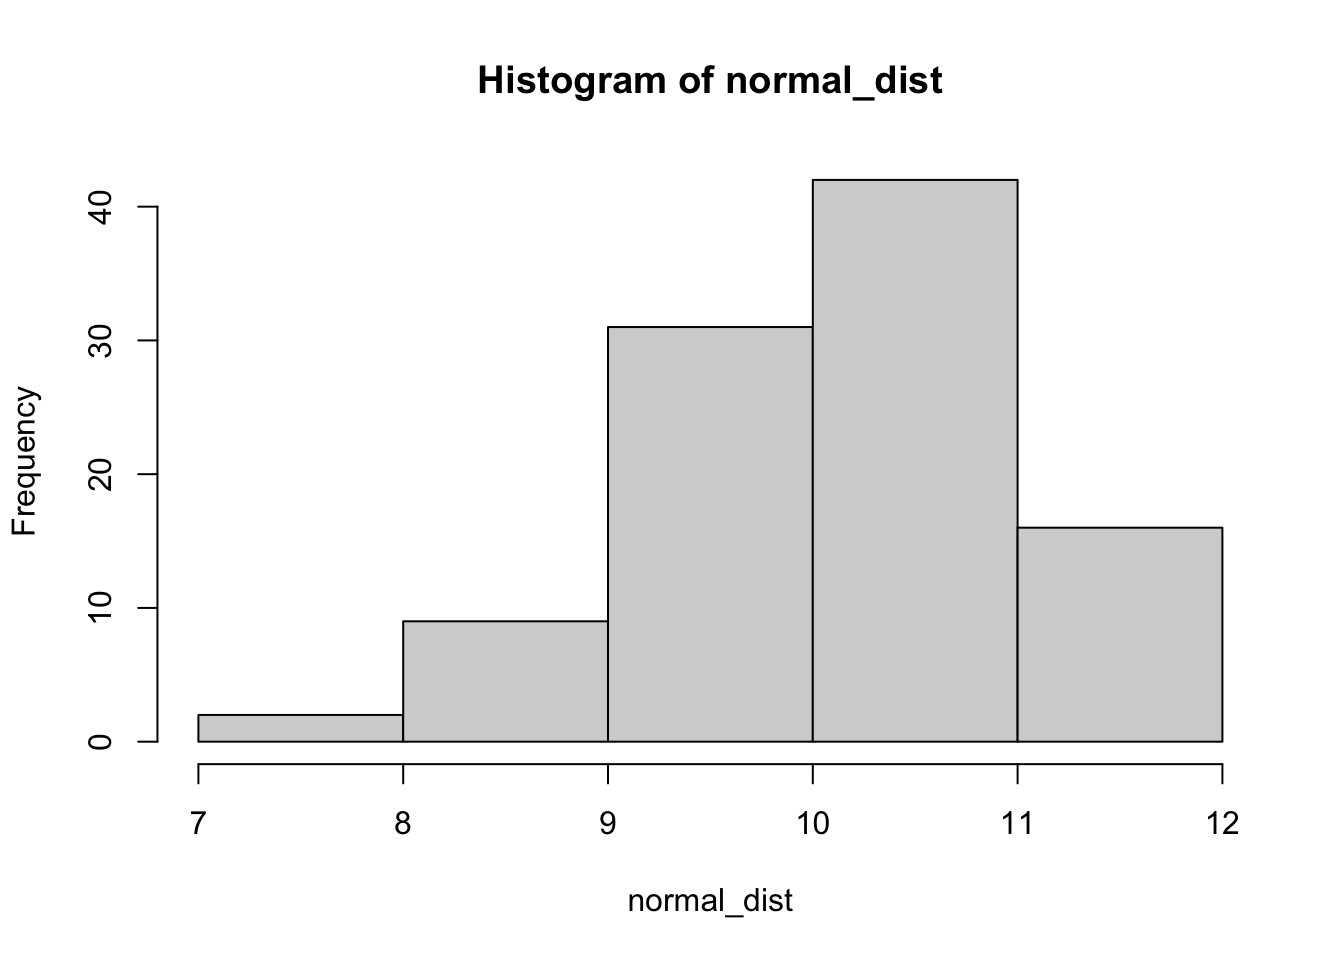
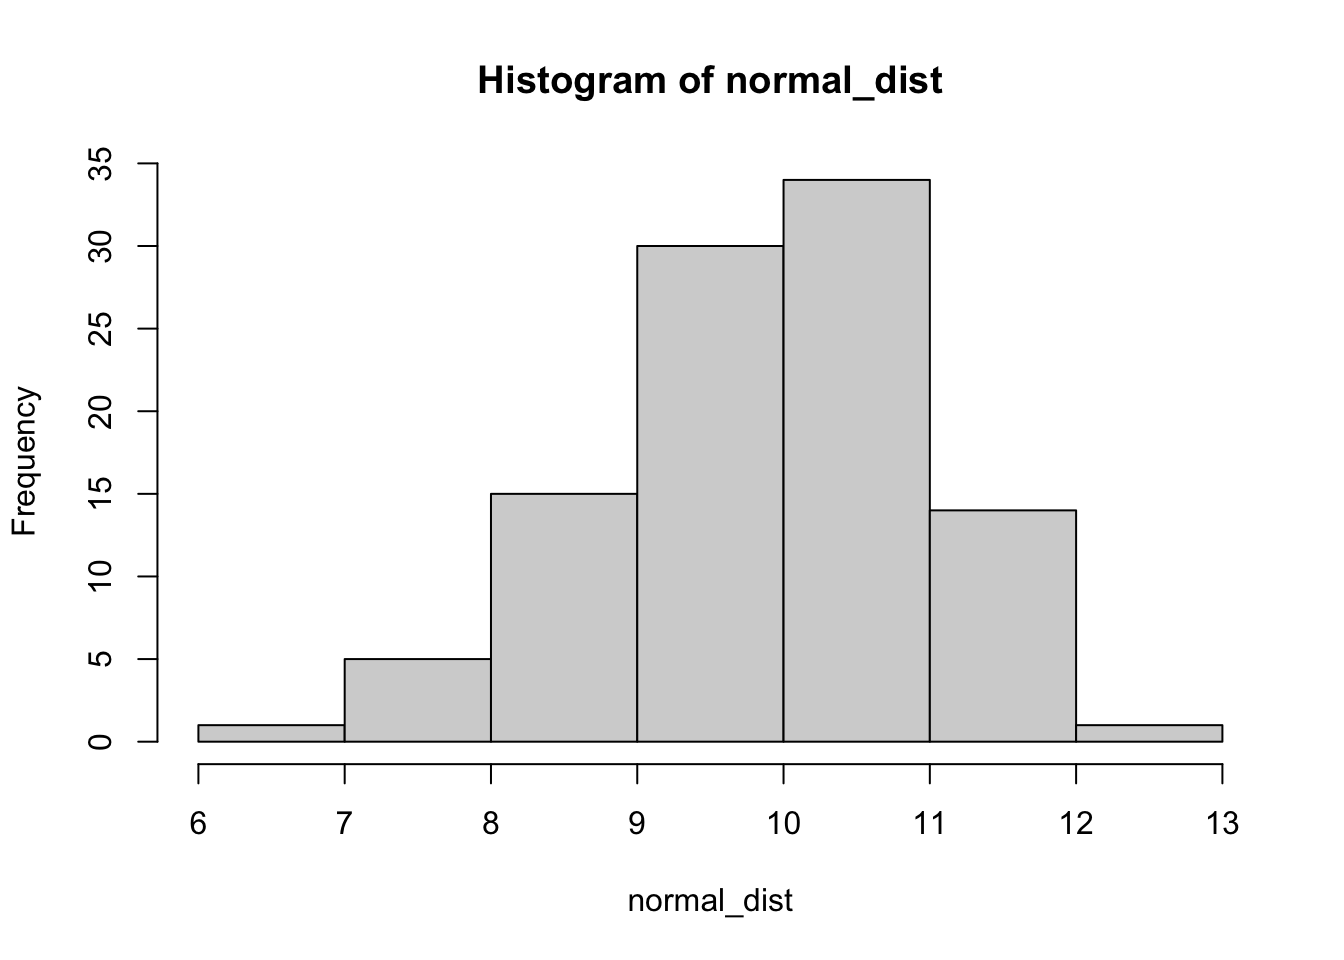
practicing commits

diff --git a/docs/unit1.html b/docs/unit1.html
@@ -249,7 +249,7 @@ An applied course using IPUMS data <br></p></a>
 </div>
 <div id="data-types" class="section level3 hasAnchor" number="1.1.2">
 <h3><span class="header-section-number">1.1.2</span> Data Types<a href="unit1.html#data-types" class="anchor-section" aria-label="Anchor link to header"></a></h3>
-<p><strong>Data</strong> is defined as “facts and statistics collected together for reference or analysis.” <em>This is from the internet and needs to be our words</em> As seen in Figure 1.1, there are two types of data: quantitative and qualitative.</p>
+<p><strong>Data</strong> is defined as “facts and statistics collected together for reference or analysis.” <em>This is from the internet and needs to be our words</em> As seen in Figure 1.1, there are two types of data: <strong>quantitative</strong> and <strong>qualitative</strong>. Quanitative data are able to be expressed in numerical format and are countable. These data are either <strong>discrete</strong> or <strong>continuous</strong>…</p>
 </div>
 <div id="data-structures" class="section level3 hasAnchor" number="1.1.3">
 <h3><span class="header-section-number">1.1.3</span> Data Structures<a href="unit1.html#data-structures" class="anchor-section" aria-label="Anchor link to header"></a></h3>
@@ -267,21 +267,21 @@ An applied course using IPUMS data <br></p></a>
 <span id="cb1-5"><a href="unit1.html#cb1-5" aria-hidden="true" tabindex="-1"></a></span>
 <span id="cb1-6"><a href="unit1.html#cb1-6" aria-hidden="true" tabindex="-1"></a></span>
 <span id="cb1-7"><a href="unit1.html#cb1-7" aria-hidden="true" tabindex="-1"></a>normal_dist</span></code></pre></div>
-<pre><code>##   [1]  9.884120 10.418187  9.486954 10.081521  9.099549 10.600962 11.180761
-##   [8]  9.755042 10.728535  9.612714 10.256490 10.715195 10.315489  9.473617
-##  [15] 11.662231  8.132190  9.312744 10.506850  9.481237 10.562680 11.396598
-##  [22]  8.634232 10.859780  9.590872 10.403037 10.361097  9.922486 10.691373
-##  [29] 11.616673 10.582918 10.763476  9.893372 10.982175 11.511166  9.493631
-##  [36] 10.464214 11.840655 10.623305 10.545686 10.463679  9.206828 10.400561
-##  [43]  9.694152  9.707894 10.175858  9.419030  9.273655 10.904799  7.404722
-##  [50]  7.344172 11.403661  9.272458 10.289780  8.714176  8.832113 10.815729
-##  [57]  9.394216 11.135970 11.323845 11.289032  9.596247  8.985435  9.826195
-##  [64]  9.621148 10.909975 10.647734  9.934720  9.906234 10.887281  8.594194
-##  [71] 10.450755 10.959571 10.666295 10.797573  9.975733 11.188053  9.449970
-##  [78] 11.421477  9.933551  8.021793  9.678413 10.281204 10.408145  9.439964
-##  [85] 10.893647  9.630950 11.174907 11.333065 11.011356 10.779558 10.956930
-##  [92]  8.758179 10.728845 10.509436 10.547267 10.103059  9.837871 10.209878
-##  [99]  8.481586 11.064220</code></pre>
+<pre><code>##   [1]  8.599598 11.549236  8.372485  8.446231  7.532960  9.492829  9.925340
+##   [8] 11.577570  8.474388  9.433135  9.866623 10.989876 11.960443 10.254014
+##  [15]  9.265931  8.988782  6.725083 10.187834 10.245291 10.734284  7.787533
+##  [22]  9.611261 11.997086  9.903942 10.980689  9.300111 11.520628  9.029120
+##  [29] 10.882818  8.730818 10.349445 10.995308 10.532758  9.938942 10.144455
+##  [36]  8.655762 12.171410 10.836089  9.261669 11.087441  8.420252  9.850458
+##  [43] 10.771936  9.010512  7.363655  7.545340  9.473335  9.194871  9.101064
+##  [50]  9.928814  8.859065  8.036924  8.864251 10.704196  9.974637 11.291433
+##  [57] 10.242104 10.889863  9.932612 10.453192  8.650745 10.213872  8.366025
+##  [64] 11.020566  8.882291 10.865093  9.365097  9.536810  9.927920 10.661389
+##  [71]  9.965194 10.901657 10.168461 10.319010 10.666562  8.623084 10.028878
+##  [78] 11.565616 10.969398  9.388016 10.441387  9.507470  9.362422 11.036244
+##  [85] 11.240732 11.071958 10.491177  9.021965  7.615119 10.293261  9.394655
+##  [92] 11.369032 10.162399 10.562452  9.751584 10.520380 10.376754 10.974473
+##  [99]  9.967268 11.776614</code></pre>
 <p>Another better way to look at data would be to <strong>visualize</strong> or <strong>plot</strong> it. One way to to that is with a <strong>histogram</strong>, which groups <strong>continuous values</strong> into <strong>bins</strong>, then plots the <strong>frequency</strong> for each bin.</p>
 <p>In R, we use the <code>hist()</code> function to plot a histogram of data. We can (try to) control the number of bins with the <code>breaks</code> argument, but note that it doesn’t always match up. The <code>hist()</code> function will adjust based on the distribution of the data.</p>
 <div class="sourceCode" id="cb3"><pre class="sourceCode r"><code class="sourceCode r"><span id="cb3-1"><a href="unit1.html#cb3-1" aria-hidden="true" tabindex="-1"></a><span class="fu">hist</span>(normal_dist,<span class="at">breaks =</span> <span class="dv">5</span>)</span></code></pre></div>
@@ -298,7 +298,7 @@ An applied course using IPUMS data <br></p></a>
 <p>We can print the table in R by calling its name.</p>
 <div class="sourceCode" id="cb5"><pre class="sourceCode r"><code class="sourceCode r"><span id="cb5-1"><a href="unit1.html#cb5-1" aria-hidden="true" tabindex="-1"></a>tab_normal_dist</span></code></pre></div>
 <pre><code>##    Min. 1st Qu.  Median    Mean 3rd Qu.    Max. 
-##   7.344   9.595  10.338  10.155  10.802  11.841</code></pre>
+##   6.725   9.171   9.971   9.913  10.788  12.171</code></pre>
 <p>Mean, standard deviation</p>
 </div>
 <div id="meaningful-comparisons" class="section level4 hasAnchor" number="1.2.2.2">
@@ -329,9 +329,9 @@ An applied course using IPUMS data <br></p></a>
 <span id="cb11-2"><a href="unit1.html#cb11-2" aria-hidden="true" tabindex="-1"></a>                       <span class="fu">summary</span>(data2))</span>
 <span id="cb11-3"><a href="unit1.html#cb11-3" aria-hidden="true" tabindex="-1"></a></span>
 <span id="cb11-4"><a href="unit1.html#cb11-4" aria-hidden="true" tabindex="-1"></a>norm_comp_tab</span></code></pre></div>
-<pre><code>##           Min.  1st Qu.    Median      Mean   3rd Qu.     Max.
-## [1,]  71.55987 93.79896 100.54960 100.30774 107.02972 127.7964
-## [2,] -20.19487 41.25138  59.15578  58.65247  75.65273 162.4843</code></pre>
+<pre><code>##           Min.  1st Qu.   Median     Mean   3rd Qu.     Max.
+## [1,] 66.238098 92.59425 99.14487 99.43077 106.61556 133.0713
+## [2,] -7.729994 41.64719 59.14711 59.07712  76.11841 130.8359</code></pre>
 <p>Making the table a little nicer. Also an example of <strong>conditional programming</strong>.</p>
 <div class="sourceCode" id="cb13"><pre class="sourceCode r"><code class="sourceCode r"><span id="cb13-1"><a href="unit1.html#cb13-1" aria-hidden="true" tabindex="-1"></a><span class="fu">rownames</span>(norm_comp_tab) <span class="do">## they&#39;re null</span></span></code></pre></div>
 <pre><code>## NULL</code></pre>
@@ -355,21 +355,21 @@ An applied course using IPUMS data <br></p></a>
 <tbody>
 <tr class="odd">
 <td align="left">data1</td>
-<td align="right">71.55987</td>
-<td align="right">93.79896</td>
-<td align="right">100.54960</td>
-<td align="right">100.30774</td>
-<td align="right">107.02972</td>
-<td align="right">127.7964</td>
+<td align="right">66.238098</td>
+<td align="right">92.59425</td>
+<td align="right">99.14487</td>
+<td align="right">99.43077</td>
+<td align="right">106.61556</td>
+<td align="right">133.0713</td>
 </tr>
 <tr class="even">
 <td align="left">data2</td>
-<td align="right">-20.19487</td>
-<td align="right">41.25138</td>
-<td align="right">59.15578</td>
-<td align="right">58.65247</td>
-<td align="right">75.65273</td>
-<td align="right">162.4843</td>
+<td align="right">-7.729994</td>
+<td align="right">41.64719</td>
+<td align="right">59.14711</td>
+<td align="right">59.07712</td>
+<td align="right">76.11841</td>
+<td align="right">130.8359</td>
 </tr>
 </tbody>
 </table>
